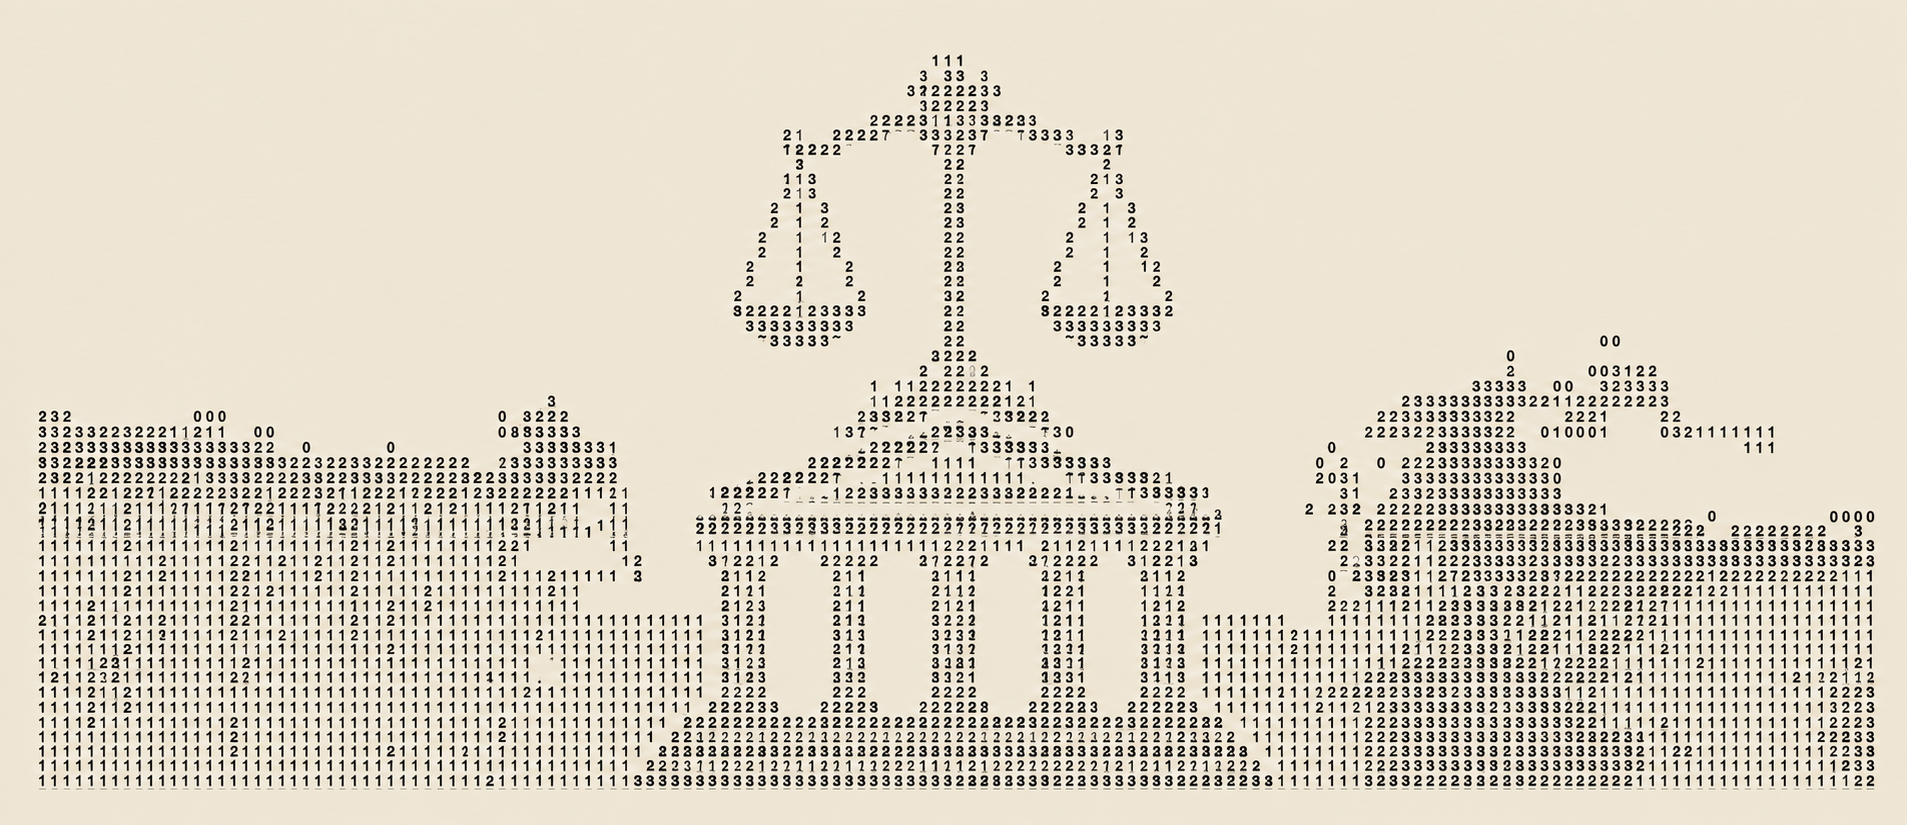
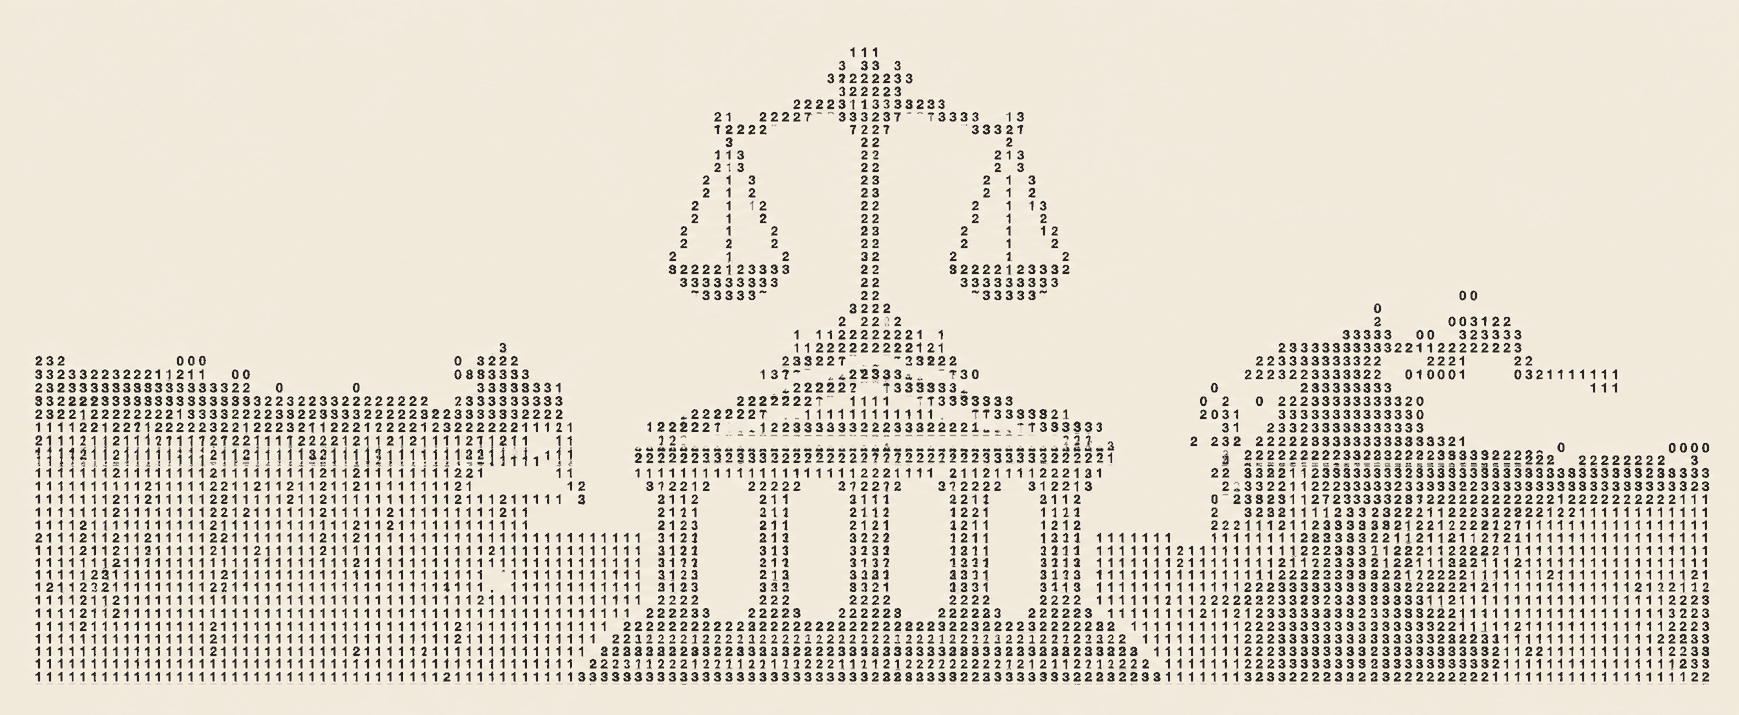
Фон первого экрана лендинга — как в макете
Картинка была растянута во всю ширину окна и затемнена боковой
заливкой: на широких экранах ASCII-графика вылезала справа тёмным
пятном. Теперь это кадр фиксированного размера по центру экрана
(1739×715 / 1352×585 / 950×411 — размеры из Figma) и подложка
с вертикальным градиентом: прозрачная сверху, к низу закрывает
картинку. Координаты в Figma отсчитаны от верха страницы, поэтому
кадр заходит под шапку — секция больше не обрезает его.

Картинка перевыгружена по границам слоя: раньше в файле был лишний
припуск, из-за него кадр сжимался по вертикали.

diff --git a/assets/scss/pages/_landing.scss b/assets/scss/pages/_landing.scss
@@ -583,7 +583,9 @@
 .ld-hero {
     position: relative;
     padding: 271px 0 0; // заголовок начинается на 349 от верха страницы
-    overflow: hidden;
+    // Картинка в макете начинается выше первого экрана, поэтому не режем;
+    // горизонтальный вылет снимает .site (overflow-x: clip).
+    overflow: visible;
 
     @include tablet {
         padding-top: 387px; // заголовок на 450 от верха страницы
@@ -594,44 +596,62 @@
     }
 }
 
+// Картинка первого экрана: в макете это кадр фиксированного размера по
+// центру экрана, а не растянутый фон. Координаты из Figma — от верха
+// страницы, поэтому подложка выходит за верх секции (шапка 78px).
 .ld-hero__backdrop {
     position: absolute;
-    inset: 0 0 auto;
+    top: -78px;
+    right: 0;
+    left: 0;
     height: 715px;
     pointer-events: none;
 
+    @include upto(1439px) {
+        top: -34px;
+        height: 585px;
+    }
+
     @include tablet {
-        height: 585px; // высота картинки из макета 640
+        top: 0;
+        height: 585px;
     }
 
     @include mobile {
         top: -17px;
-        height: 411px; // высота картинки из макета 375
+        height: 411px;
     }
 }
 
 .ld-hero__image {
+    position: relative;
+    left: 50%;
     display: block;
-    width: 100%;
-    height: 100%;
-    object-fit: cover;
-    object-position: center top;
+    width: 1739px;
+    height: 715px;
+    max-width: none;
+    object-fit: fill; // в макете кадр растянут по рамке
+    transform: translateX(-50%);
+
+    @include upto(1439px) {
+        width: 1352px;
+        height: 585px;
+    }
+
+    @include mobile {
+        width: 950px;
+        height: 411px;
+    }
 }
 
 .ld-hero__veil {
-    // Подложка из макета: слева непрозрачная, справа открывает картинку.
+    // Подложка из макета: прозрачная сверху, к низу закрывает картинку.
+    // Две одинаковые заливки друг на друге дают кривую 1 − (1 − p)².
     position: absolute;
     inset: 0;
     background:
-        linear-gradient(180deg, rgba($c-page, 0) 70%, $c-page 100%),
-        linear-gradient(to left, rgba(232, 224, 207, 0) 0%, #e8e0cf 100%),
-        linear-gradient(to left, rgba(232, 224, 207, 0) 0%, $c-page 100%);
-
-    @include tablet {
-        // На узких экранах текст идёт поверх картинки целиком.
-        background:
-            linear-gradient(180deg, rgba($c-page, 0.92) 0%, rgba($c-page, 0.92) 70%, $c-page 100%);
-    }
+        linear-gradient(180deg, rgba($c-page, 0) 0%, $c-page 100%),
+        linear-gradient(180deg, rgba(232, 224, 207, 0) 0%, #e8e0cf 100%);
 }
 
 .ld-hero__main {
